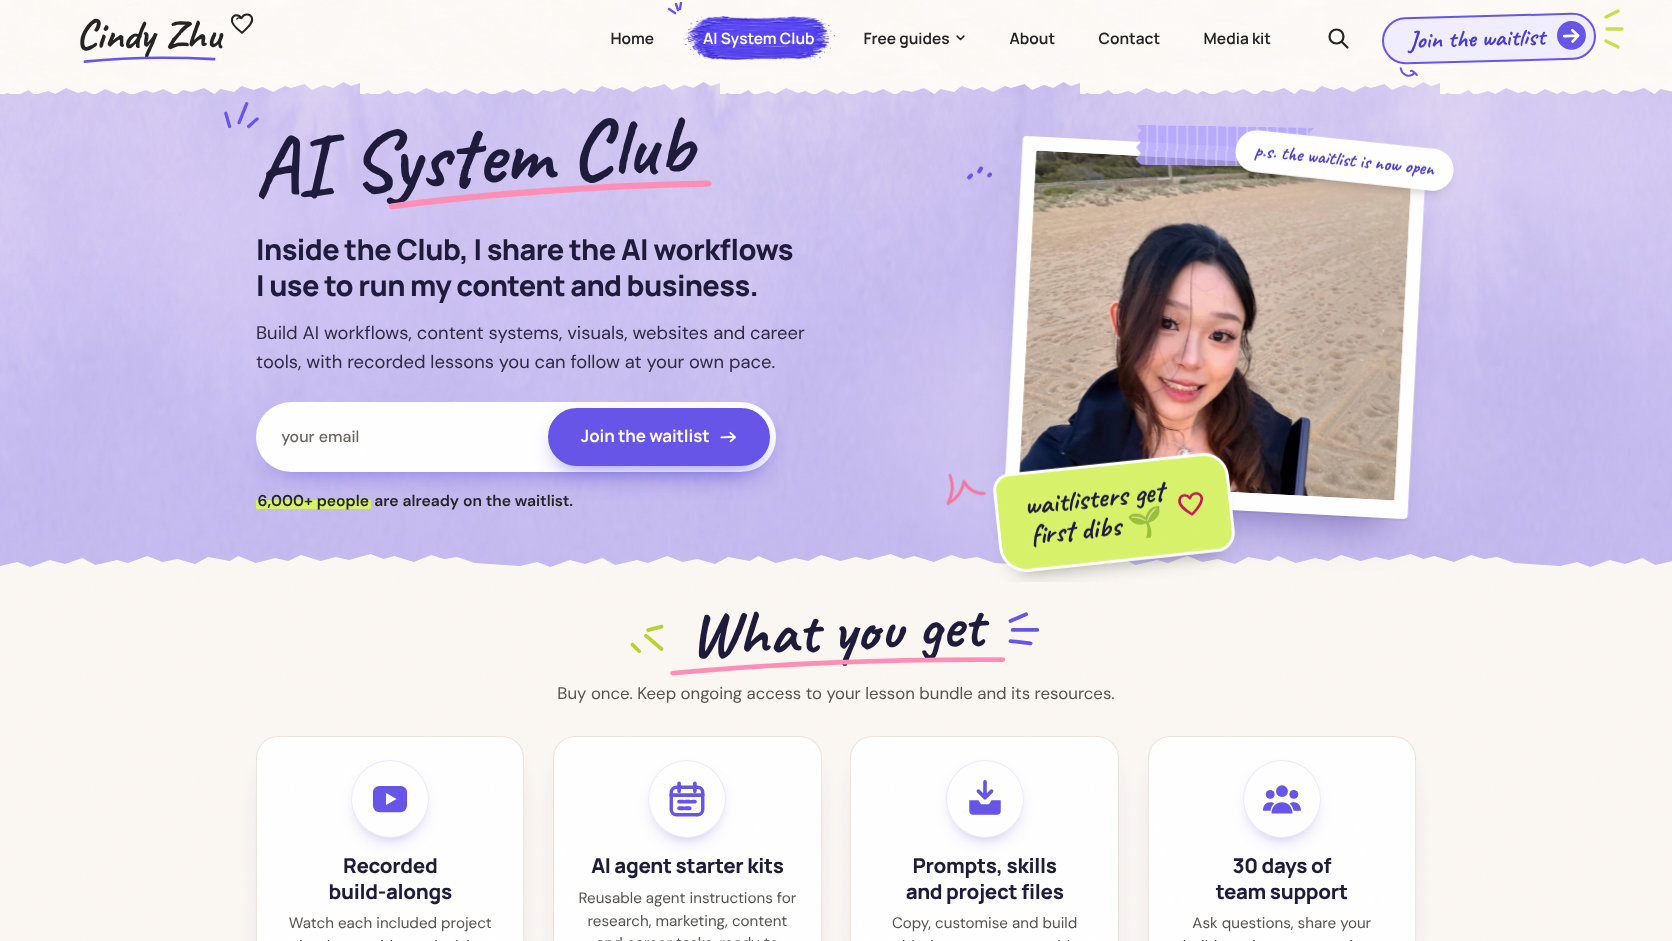
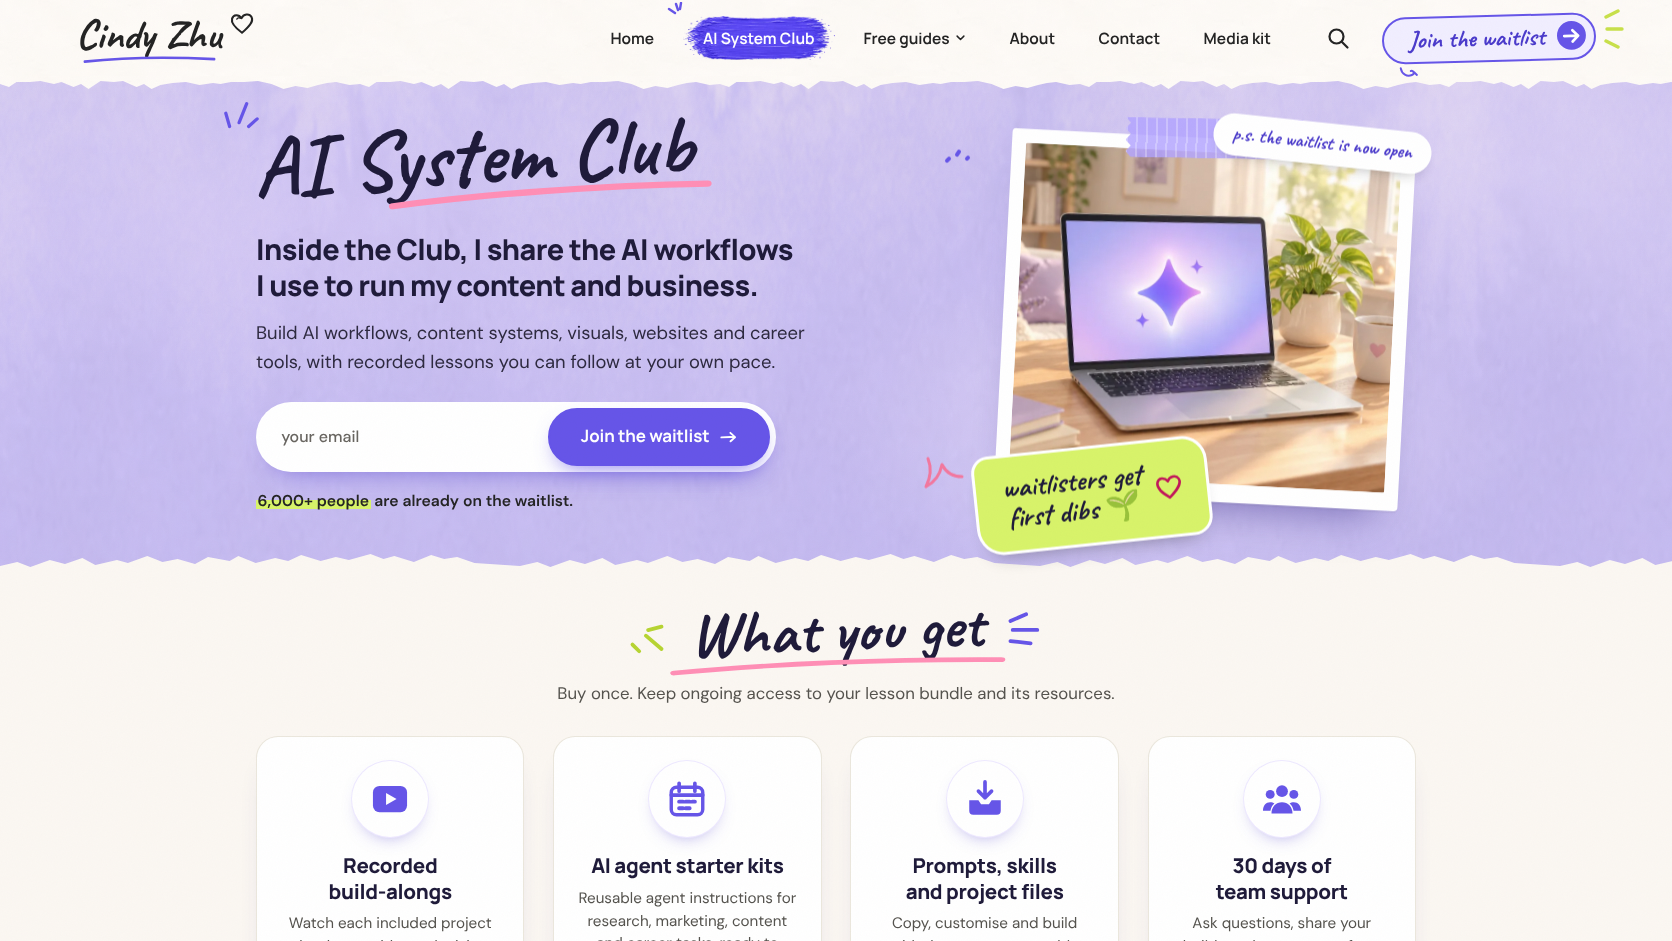
Use a laptop-on-desk illustration in the AI System Club frame
Generated for this project (no logos, no people), as in the mockup.

Claude-Session: https://claude.ai/code/session_014ZMKwKg2YxJJPg6Yp85GTh

diff --git a/cindy-site/site/ai-system.html b/cindy-site/site/ai-system.html
@@ -58,7 +58,7 @@
     <div class="layer" data-depth="0.6">
       <div class="club-frame">
         <span class="club-tape" aria-hidden="true"></span>
-        <img src="cindy.jpg" alt="Cindy Zhu" width="828" height="1100">
+        <img src="img/club-laptop.webp" alt="A laptop on a cosy desk" width="900" height="678">
       </div>
     </div>
     <div class="layer" data-depth="1.3">
